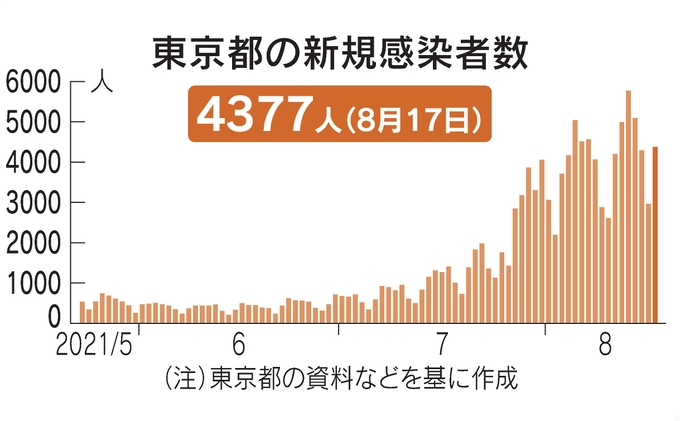
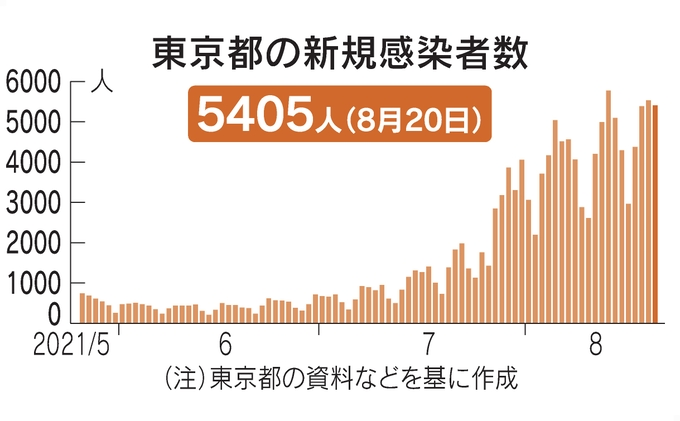
regular update

diff --git a/parts/news.php b/parts/news.php
@@ -52,6 +52,44 @@
         </li>
 
     <hr> -->
+        2021年08月20日
+    
+        <li>
+                <i class="far fa-file-alt"></i>
+                <a href="https://www.nikkei.com/article/DGXZQOCC201VA0Q1A820C2000000/" target="blank" rel="noopener">
+                東京都、新たに5405人感染　7日平均で前週の113.6%</a>
+        </li>
+        <li>
+                <i class="far fa-file-alt"></i>
+                <a href="https://www.nikkei.com/article/DGXZQOUC193QC0Z10C21A8000000/" target="blank" rel="noopener">
+                オンライン診療、医師探しやすく　ドコモなど予約なしで</a>
+        </li>
+        <li>
+                <i class="far fa-file-alt"></i>
+                <a href="https://www.nikkei.com/article/DGXZQOUB127PF0S1A810C2000000/" target="blank" rel="noopener">
+                老後マネー狙う特殊詐欺　「コロナ」が新手口</a>
+        </li>
+
+    <hr>
+        2021年08月19日
+    
+        <li>
+                <i class="far fa-file-alt"></i>
+                <a href="https://www.nikkei.com/article/DGXZQOCC194DR0Z10C21A8000000/" target="blank" rel="noopener">
+                東京都、新たに5534人感染　7日平均で前週の120.1%</a>
+        </li>
+        <li>
+                <i class="far fa-file-alt"></i>
+                <a href="https://www.nikkei.com/article/DGXZQOUE1090S0Q1A810C2000000/" target="blank" rel="noopener">
+                自宅療養急増7万人、訪問ケア限界　オンライン活用急務</a>
+        </li>
+        <li>
+                <i class="far fa-file-alt"></i>
+                <a href="https://www.nikkei.com/article/DGXZQOCC176H20X10C21A8000000/" target="blank" rel="noopener">
+                学生接種率8割の慶応大「副反応の体験談共有」</a>
+        </li>
+
+    <hr>
         2021年08月18日
     
         <li>
